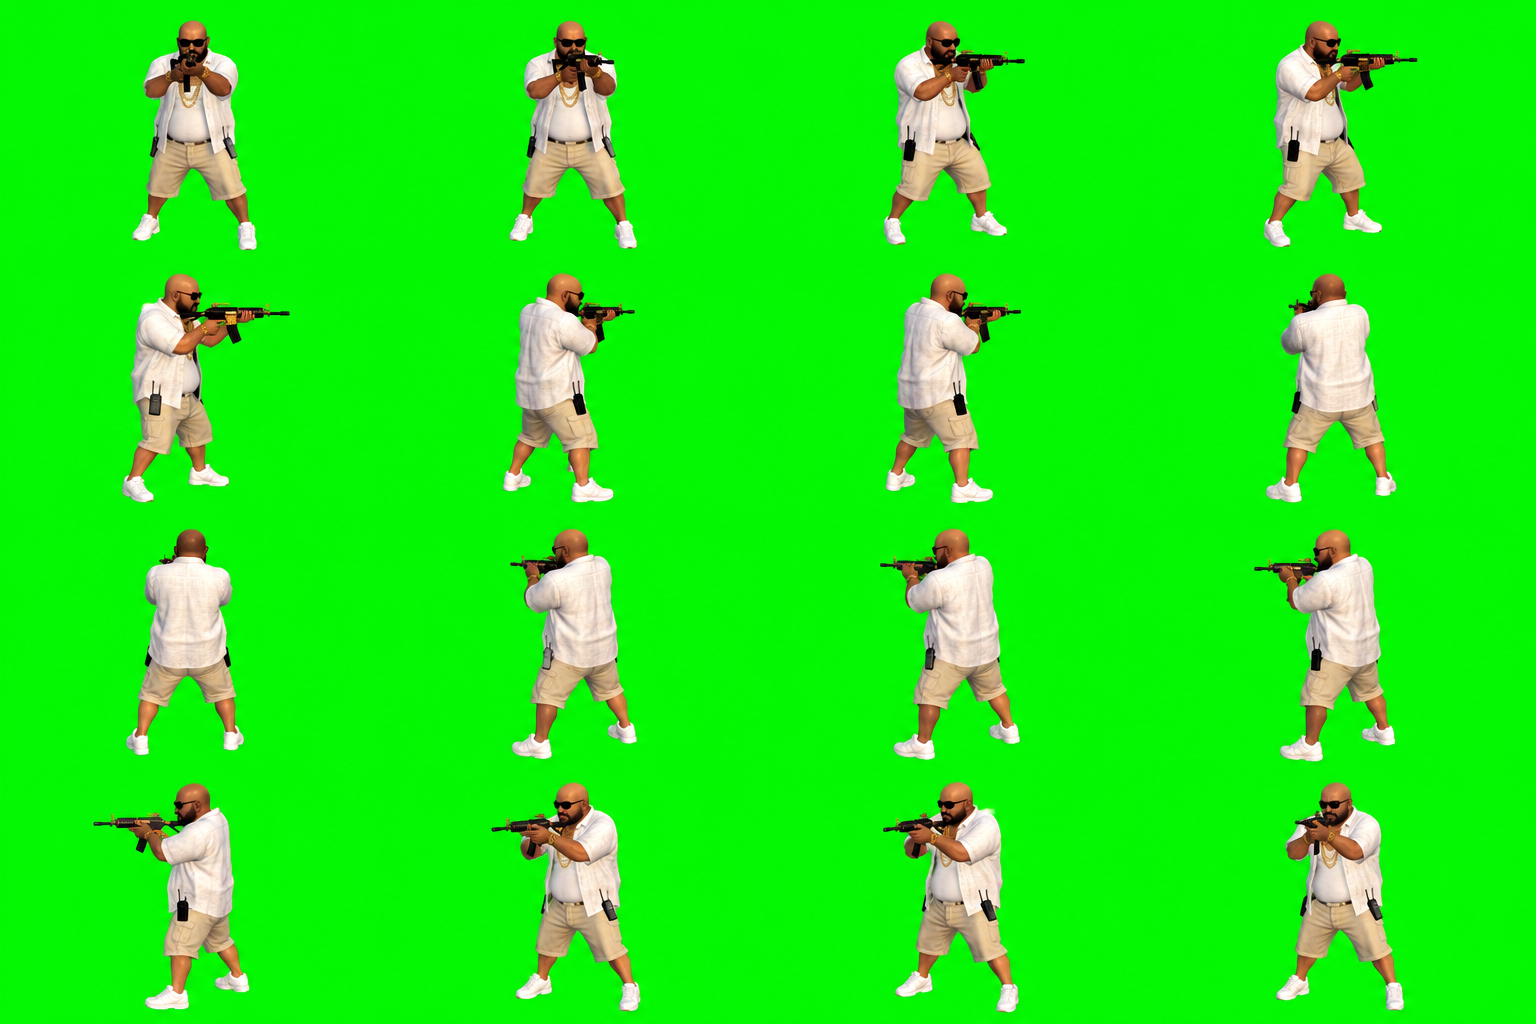
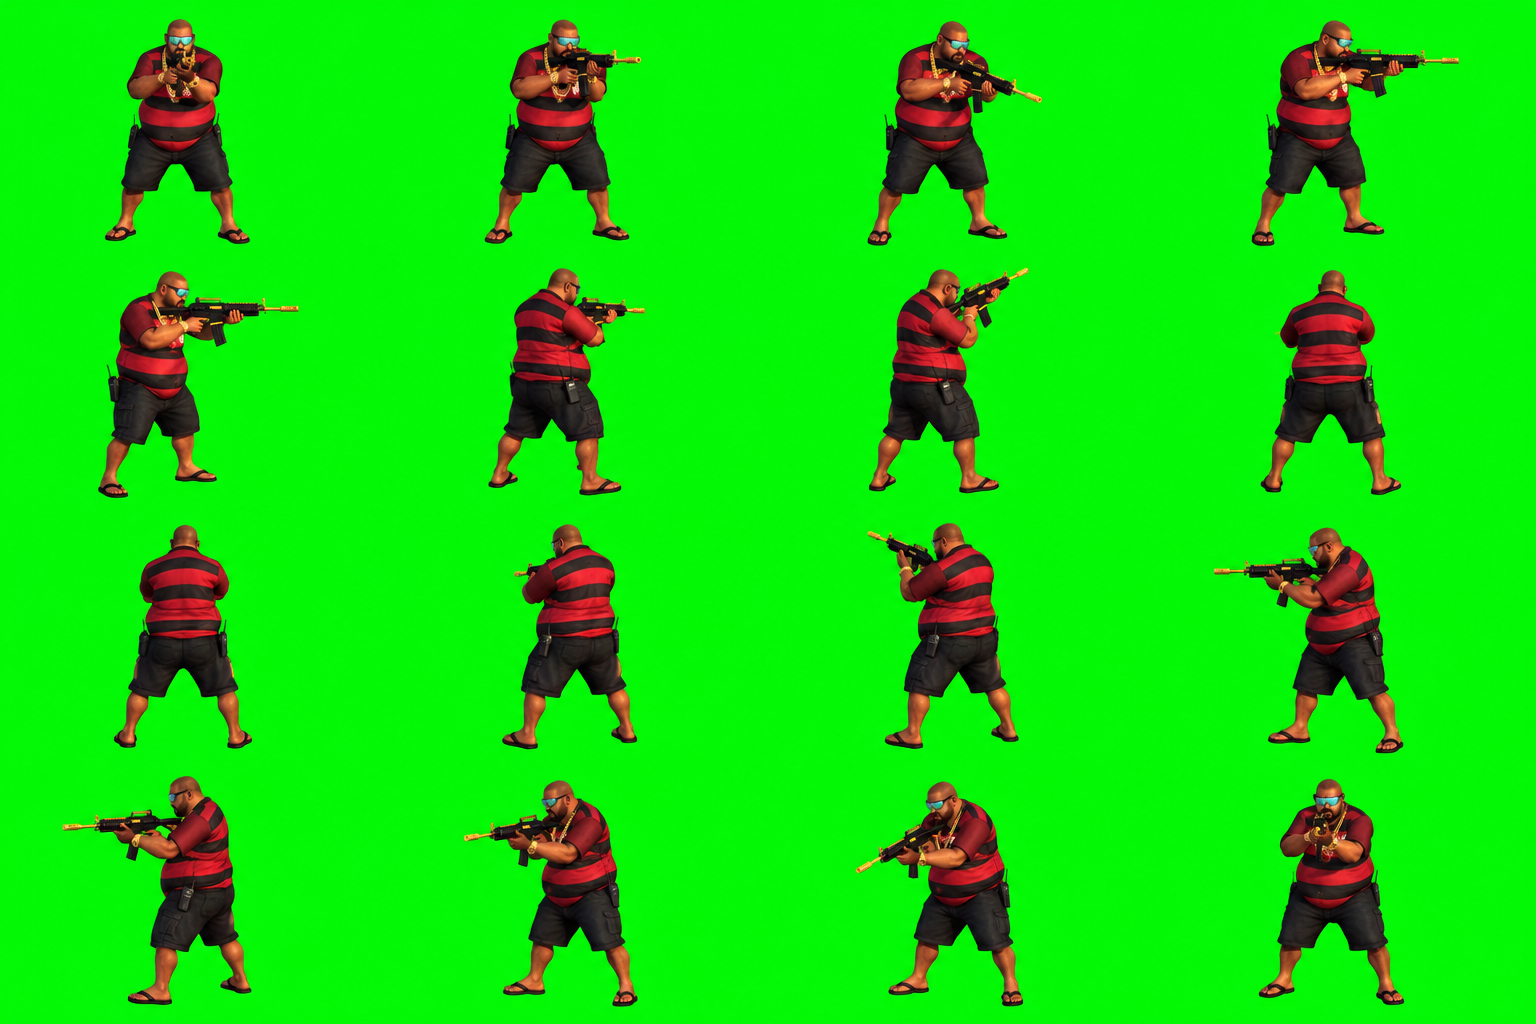
Traficante e Chefe do Tráfico com roupa de favela do Rio
Desenhados de novo no Figma (caminhada, ataque e raiva em 16 direções):
o Traficante sem camisa, de bermuda tactel estampada, chinelo de dedo,
cabelo nevado e radinho; o Chefe com a camisa rubro-negra listrada sem
escudo, bermuda, chinelo e cordão de ouro. Sai o visual de rapper
americano.

Claude-Session: https://claude.ai/code/session_01V3nfXgj3At2PPcBsXwjYXU

diff --git a/docs/DECISOES.md b/docs/DECISOES.md
@@ -39,6 +39,7 @@ Continua o registro do pacote de conceito (`docs/concept-v0.1/06_Decisoes_e_Ques
 | D33 | 07/11/2026 | Funkeiro Raivoso | Pacotes do autor (Funkeiro Raivoso v2: caminhada em 16 direções × 6 quadros; Fúria de Braços Abertos: 16 poses). Entra como inimigo da Subida do Morro (peso 0,18 na mistura): chega perto, para de braços abertos com a direção travada (0,7 s, o aviso) e parte reto em investida (3,4× a velocidade por 0,5 s); dá para sair da frente. Números em `ENEMIES.funkeiro`. O Funkeiro jogável e o baile na laje continuam para depois | Feito no protótipo |
 | D34 | 07/11/2026 | Traficante desenhado no Figma | Primeiro personagem desenhado pelo Figma pessoal do autor no formato dos pacotes do GPT: 4 folhas de caminhada (16 direções × 6 quadros, grade 6×4) e uma folha de mira com o fuzil (16 ângulos, grade 4×4), montadas com `tools/montar-atlas.py` e `tools/montar-poses.py`. Ele anda com o atlas e, enquanto mira e logo depois do tiro, fica com a pose de mira virada para o ponto travado. Folhas originais em `docs/arte/personagens_figma/traficante/`. O Figma só recebe texto (sem imagem de referência), então cada folha nasce do mesmo texto; saiu consistente. Atenção: na caminhada a camisa tem três listras brancas nas laterais, que lembram uma marca esportiva real; a folha de mira já saiu lisa | Feito no protótipo; listras a revisar |
 | D35 | 07/11/2026 | Chefe do Tráfico e poses de todo personagem | Pedido do autor: desenhar um personagem após o outro, e todo personagem com pose de ataque e pose de raiva, além da caminhada em 16 direções. O Chefe do Tráfico (Figma, `tools/pacote-figma.py`) aparece quando o Juninho pisa na laje do topo: rajadas de 3 tiros com a linha de aviso antes (pose de ataque), e a cada 12 s para, grita no rádio de fuzil para o alto (pose de raiva) e chama 2 traficantes com fogos. A entrega só sai com ele derrubado; derrubar não acaba a partida, falta entregar. Números em `ENEMIES.chefe_trafico`. Toque de recolher e a proposta "trabalhar pra firma" ficam para depois | Feito no protótipo |
+| D36 | 07/11/2026 | Roupa de favela do Rio | Pedido do autor: os personagens estavam vestidos como rapper americano (boné para trás, camiseta larga, corrente grossa). Daqui para frente: regata, sem camisa, bermuda tactel, chinelo de dedo, pé descalço, cabelo nevado, óculos espelhado, radinho na cintura e camisas de time nas cores do Botafogo (listras preto e branco), do Flamengo (listras rubro-negras) e do Vasco (branca com a faixa preta na diagonal), sem escudo nem marca (escudo é marca registrada; pôr o escudo de verdade é decisão do autor). E variar os bonecos. Traficante (sem camisa, bermuda tactel, chinelo, cabelo nevado) e Chefe do Tráfico (camisa rubro-negra, bermuda, chinelo, cordão de ouro) desenhados de novo | Feito no protótipo |
 
 ## Pendentes
 
